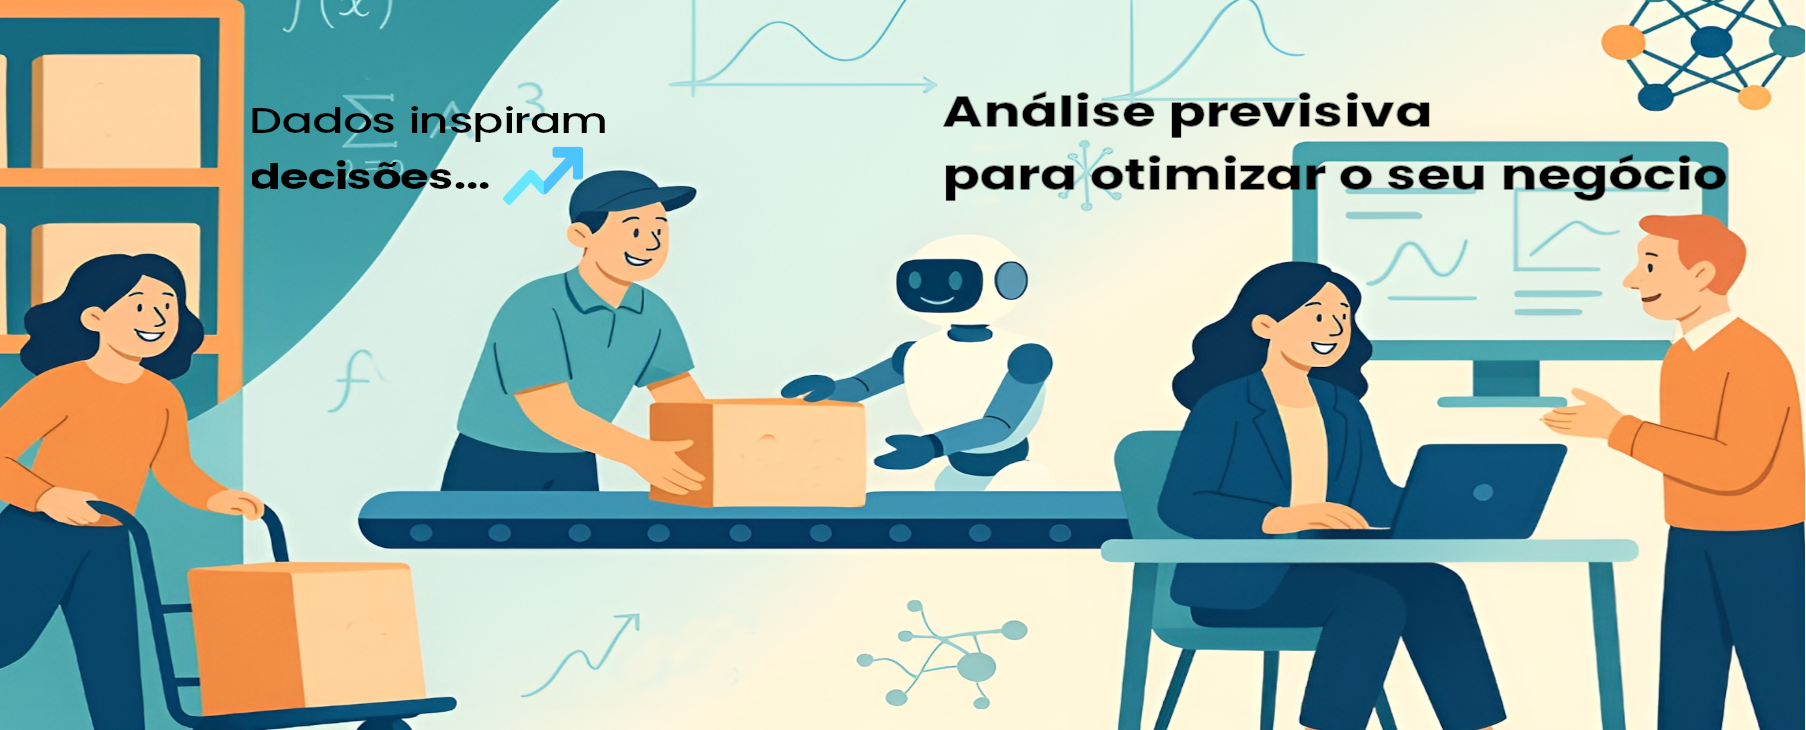
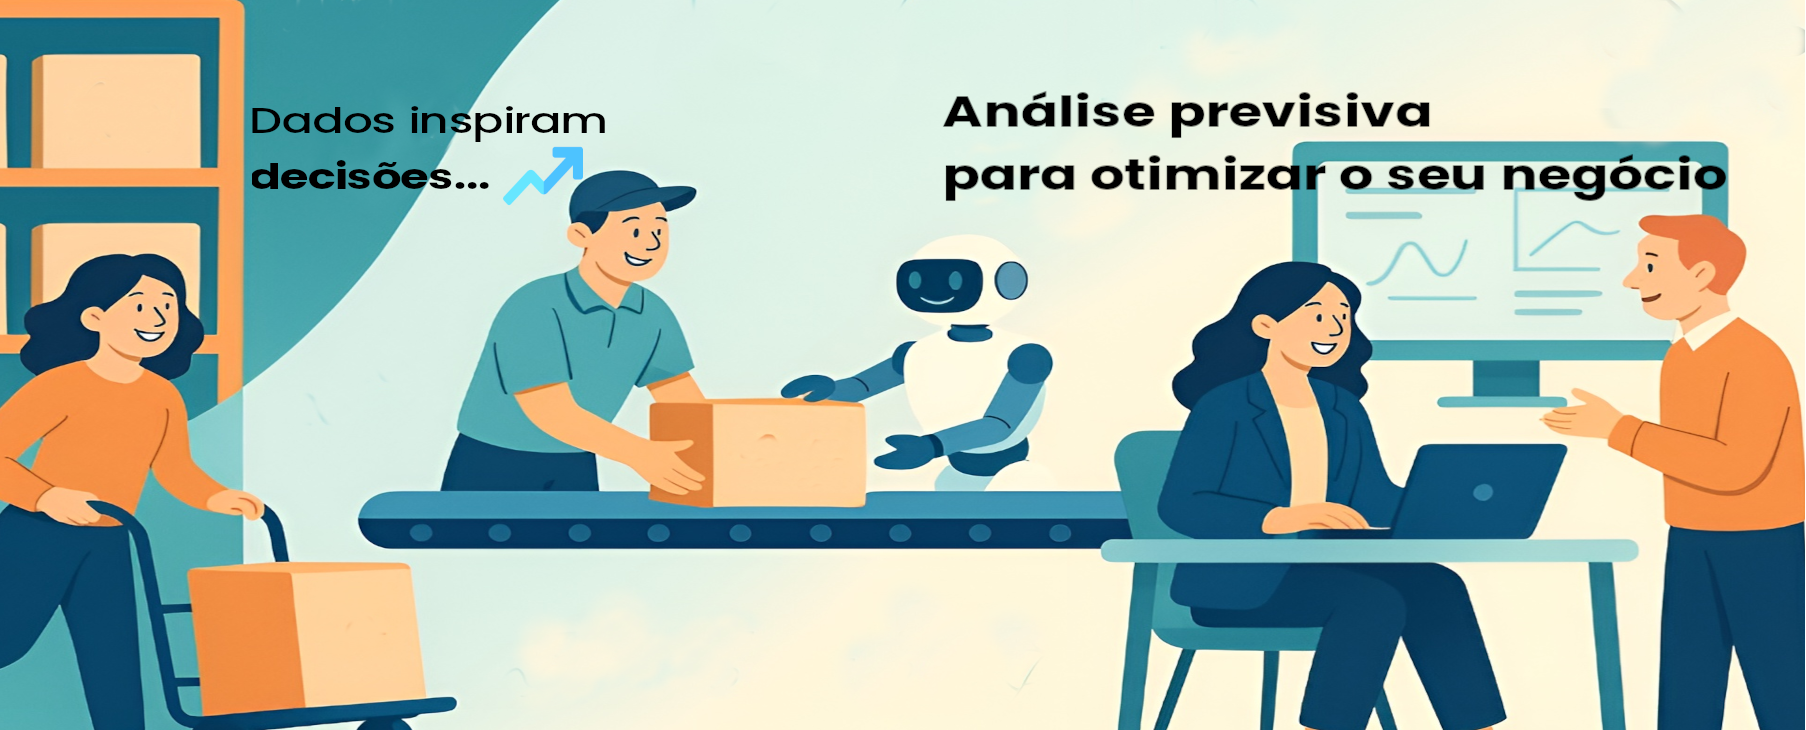
três botões abaixo do hero

diff --git a/src/app/app.component.html b/src/app/app.component.html
@@ -1,7 +1,13 @@
 <app-header></app-header>
 
-<main class="container mx-auto px-4 mt-8">
-    <img src="../assets/hero-image.png" alt="Hero Image" class="rounded-10xl w-full hero-image">
+<main class="container mx-auto px-2 sm:px-4 mt-6">
+    <img src="../assets/hero-image.png" alt="Hero Image" class="rounded-10xl w-full md:max-w-screen lg:max-w-screen-xl md:mx-auto hero-image">
 </main>
+
+<div class="flex flex-col items-center sm:flex-row sm:justify-center gap-4 sm:gap-10 mt-5 bg-custom-gray border-t border-b border-dotted border-light-yellow py-4">
+    <button class="w-full sm:w-auto md:w-80 px-10 py-2 border-none rounded-full rounded-tl-none text-white text-base cursor-pointer transition duration-300 ease-in-out bg-service-blue hover:opacity-90">Nossos serviços </button>
+    <button class="w-full sm:w-auto md:w-80 px-10 py-2 border-none rounded-full rounded-tl-none text-white text-base cursor-pointer transition duration-300 ease-in-out bg-light-yellow hover:opacity-90">Entre em contato </button>
+    <button class="w-full sm:w-auto md:w-80 px-10 py-2 border-none rounded-full rounded-tl-none text-white text-base cursor-pointer transition duration-300 ease-in-out bg-light-orange hover:opacity-90">Conte-nos seus desafios </button>
+</div>
 
 <router-outlet></router-outlet>

diff --git a/tailwind.config.js b/tailwind.config.js
@@ -8,6 +8,9 @@ module.exports = {
                 'light-yellow': '#E3BF5D',
                 'light-orange': '#E28E65',
                 'light-blue': '#3D99F0',
+                'service-blue': '#6E9AC4',
+                'custom-gray': 'rgba(232,232,232,0.33)',
+                
                 
             },
             fontFamily: {

diff --git a/src/styles.css b/src/styles.css
@@ -62,7 +62,7 @@ body {
 
 .hero-image {
     width: 100%;
-    max-height: 730px;
+    max-height: 400px;
     object-fit: cover;
     object-position: center;
 }
